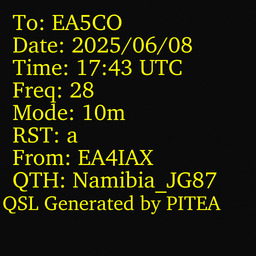
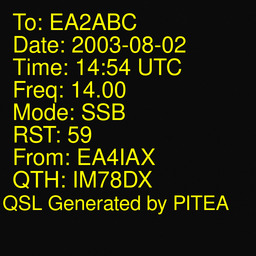
wip(Interfaz prácticamente terminada)

Changed region(s): [[0.0, 0.0312, 0.9062, 0.8438], [0.0312, 0.6875, 0.0625, 0.7188]]

diff --git a/pitea/interfaz/comandos/IntercambioQSLCommand.py b/pitea/interfaz/comandos/IntercambioQSLCommand.py
@@ -1,0 +1,66 @@
+from interfaz.comandos.command import Command
+from constantes import constantes
+from interfaz.utils import comprobar_opcion, comprobar_archivo, ejecutar_comando
+from interfaz.MenuPrinter import MenuPrinter
+from interfaz.comandos.GenerarTarjetaCommand import GenerarTarjetaCommand
+from PIL import Image
+
+
+class IntercambioQSLCommand(Command):
+    """
+    Comando para iniciar un intercambio QSL desde una imagen ya decodificada
+    o mediante Qsstv (modo transmisión).
+    """
+
+    descripcion = "Intercambio QSL"
+
+    def ejecutar(self):
+        menu = MenuPrinter()
+        menu.mostrar_opcion(self.descripcion)
+
+        # Elegir modo
+        modo = comprobar_opcion(
+            "📡 ¿Cómo quieres hacer el intercambio? (imagen/transmision): ",
+            ["imagen", "transmision"]
+        )
+
+        # ¿Verbose?
+        verbose = comprobar_opcion(
+            f"📢 ¿Activar modo verbose? ({'/'.join(constantes.OPCIONES_VERBOSE)}): ",
+            constantes.OPCIONES_VERBOSE
+        ) == "s"
+
+        # Construir comando base
+        comando = ["python3", constantes.SCRIPT_PATH, "intercambio-qsl"]
+
+        if modo == "transmision":
+            comando.append("--transmision")
+        else:
+            ruta_imagen = comprobar_archivo("🖼 Ruta de la imagen decodificada: ")
+            comando.extend(["--input", ruta_imagen])
+
+        if verbose:
+            comando.append("--verbose")
+
+        # Ejecutar comando
+        ejecutar_comando(comando)
+
+        generar_tarjeta = comprobar_opcion( 
+            "🖨 ¿Generar tarjeta QSL? (s/n): ",
+            ["s", "n"]
+        ) == "s"
+        if generar_tarjeta:
+            # Mostramos la tarjeta recibida por pantalla
+            if modo == "transmision":
+                ruta_tarjeta = constantes._RUTA_QSL_RECIBIDA
+            else:
+                ruta_tarjeta = constantes._RUTA_QSL_RECIBIDA
+            # Abrir y mostrar la imagen
+            imagen = Image.open(ruta_tarjeta)
+            imagen.show(title="Tarjeta recibida")
+            # mostramos los datos extraidos
+            ruta_datos = constantes._RUTA_QSL_DATOS_ESTRUCTURADOS
+            with open(ruta_datos, "r") as f:
+                print(f.read())
+            # llamamos al comando de generar tarjeta para que se ejecute
+            GenerarTarjetaCommand().ejecutar()

diff --git a/pitea/pitea/main.py b/pitea/pitea/main.py
@@ -20,7 +20,6 @@ import easyocr
 import base64
 from pitea.procesamiento_qsl.procesamiento_qsl import Procesamiento_datos_qsl
 
-
 # Inicializar colorama (para compatibilidad con Windows)
 init()
 
@@ -28,12 +27,13 @@ def flujo_de_trabajo_ocultar(
     modo_cifrado,
     modo_cifrado_imagen,
     modo_cifrado_audio,
-    input,
+    archivo_entrada,
     input_imagen,
     input_audio,
     output,
     contraseña,
 ):
+
 
     """
     Ejecuta el flujo de cifrado y ocultación de datos en imagen y audio.
@@ -42,7 +42,7 @@ def flujo_de_trabajo_ocultar(
         modo_cifrado (str): Método de cifrado para datos ('aes' o 'none').
         modo_cifrado_imagen (str): Modo de ocultación en imagen ('lsb' o 'text').
         modo_cifrado_audio (str): Modo de ocultación en audio ('lsb' o 'sstv').
-        input (str): Ruta al archivo de datos a ocultar.
+        archivo_entrada (str): Ruta al archivo de datos a ocultar.
         input_imagen (str): Ruta a la imagen contenedora.
         input_audio (str): Ruta al audio contenedor.
         output (str): Nombre o ruta base del archivo de salida de audio.
@@ -66,7 +66,7 @@ def flujo_de_trabajo_ocultar(
         cifrador = CifradorFactory.creacion(modo_cifrado, contraseña, None)
 
         print("Cifrador creado , cifrando datos ...")
-        cifrador.cifrar_guardar(input)
+        cifrador.cifrar_guardar(archivo_entrada)
 
         print("Creando ocultador en imagenes ...")
         ocultador_imagen = OcultadorImagenFactory.creacion(
@@ -227,7 +227,7 @@ def flujo_intercambio_qsl(transmision,input):
     #         f.write(datos_procesados)
 
     ## aqui empezaria la logica de la generacion de la tarjeta de vuelta...
-    
+
 
     
 

diff --git a/pitea/launch.py b/pitea/launch.py
@@ -5,6 +5,7 @@ from interfaz.comandos.DesocultarArchivoCommand import DesocultarArchivoCommand
 from interfaz.MenuPrinter import MenuPrinter
 from constantes import constantes
 from interfaz.comandos.GenerarTarjetaCommand import GenerarTarjetaCommand
+from interfaz.comandos.IntercambioQSLCommand import IntercambioQSLCommand
 
 class Launch :
     """
@@ -31,7 +32,7 @@ class Launch :
         inv = Invoker()              #Creamos el invoker
 
         # Registro de comandos
-        comandos = [OcultarArchivoCommand(), DesocultarArchivoCommand(), GenerarTarjetaCommand()]
+        comandos = [OcultarArchivoCommand(), DesocultarArchivoCommand(), GenerarTarjetaCommand(),IntercambioQSLCommand()]
         for idx, comando in enumerate(comandos, start=1):
             inv.registrar_comando(str(idx), comando)
 

diff --git a/pitea/script_ejecucion.py b/pitea/script_ejecucion.py
@@ -428,7 +428,6 @@ def intercambio_qsl(verbose,transmision,input):
     if verbose:
         constantes.VERBOSE = True
 
-
     if transmision is None and input is None:
         click.BadOptionUsage("No se ha introducido la ruta de la imagen decodificada.")
 
@@ -437,7 +436,9 @@ def intercambio_qsl(verbose,transmision,input):
         click.echo(f"Modo transmision: {transmision}")
         click.echo(f"Ruta de imagen decodificada: {input}")
 
-    flujo_intercambio_qsl(transmision,input)
+    flujo_intercambio_qsl(transmision, input)
+
+    
 
 
 

diff --git a/pitea/interfaz/utils.py b/pitea/interfaz/utils.py
@@ -9,7 +9,6 @@ from prompt_toolkit import prompt
 from prompt_toolkit.completion import PathCompleter
 import sys
 sys.path.append("../../")  
-from script_ejecucion import main
 from click.testing import CliRunner
 import re
 from datetime import datetime
@@ -215,6 +214,7 @@ def ejecutar_comando(comando):
 
     try:
         runner = CliRunner()
+        from script_ejecucion import main
         result = runner.invoke(main, comando)
         print(result.output)
 
